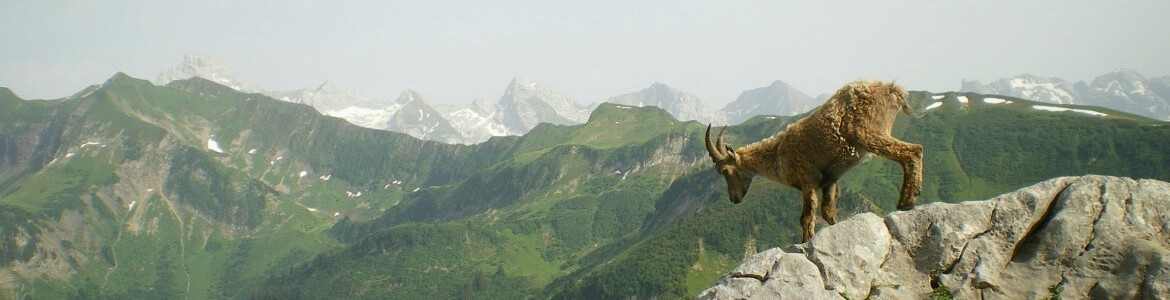
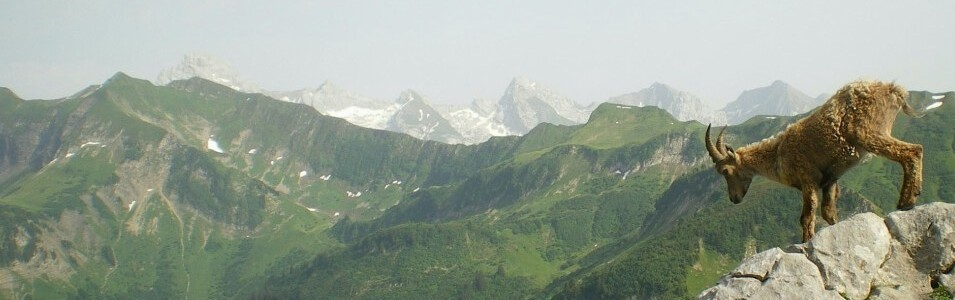
Адаптация 123

diff --git a/contacts.html b/contacts.html
@@ -36,7 +36,7 @@
   </head>
   <body>
   <!-- ==================== ШАПКА страницы Контакты ==================== -->
-  <header style="background-image: url('images/header-contacts.jpg'); background-size: cover; background-position: center;">
+  <header style="background-image: url('images/header-contacts.jpg'); background-size: cover; background-position: right">
     <div class="burger-wrapper">
       <button class="burger" id="burger">☰</button>
     </div>

diff --git a/index.html b/index.html
@@ -51,7 +51,7 @@
 <body>
 
   <!-- ==================== ШАПКА главной страницы 10-Ц ==================== -->
-  <header style="background-image: url('images/header.jpg'); background-size: cover; background-position: center;">
+  <header style="background-image: url('images/header.jpg'); background-size: cover; background-position: left">
     <div class="burger-wrapper">
       <button class="burger" id="burger">☰</button>
     </div>

diff --git a/about.html b/about.html
@@ -52,7 +52,7 @@
 
   </head>
   <body>
-        <header style="background-image: url('images/header-about.jpg'); background-size: cover; background-position: center;">
+        <header style="background-image: url('images/header-about.jpg'); background-size: cover; background-position: right;">
     <div class="burger-wrapper">
       <button class="burger" id="burger">☰</button>
     </div>

diff --git a/happiness.html b/happiness.html
@@ -50,7 +50,7 @@
 
   </head>
   <body>
-    <header style="background-image: url('images/header-happiness.jpg'); background-size: cover; background-position: center;">
+    <header style="background-image: url('images/header-happiness.jpg'); background-size: cover; background-position: right">
     <div class="burger-wrapper">
       <button class="burger" id="burger">☰</button>
     </div>
